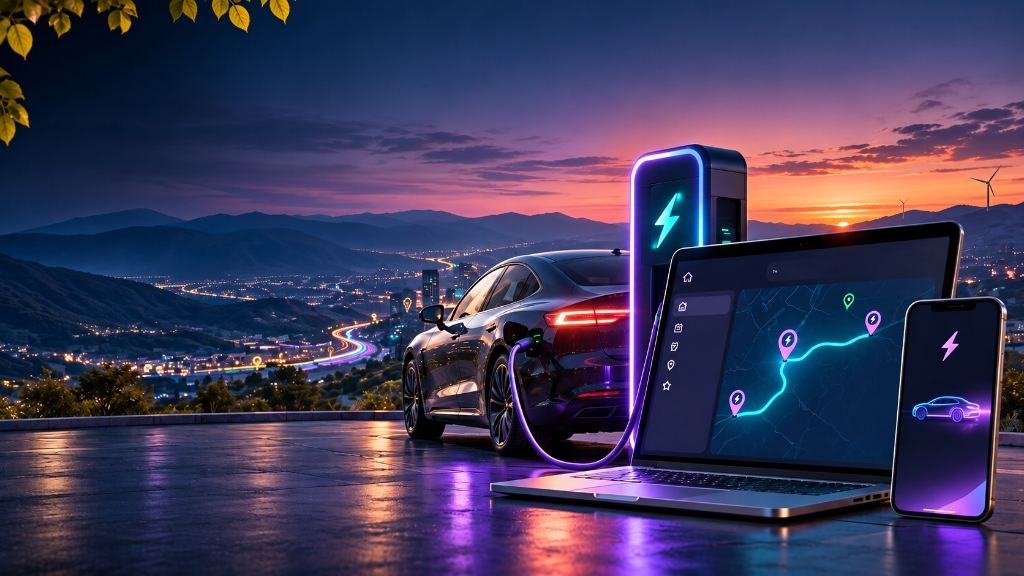
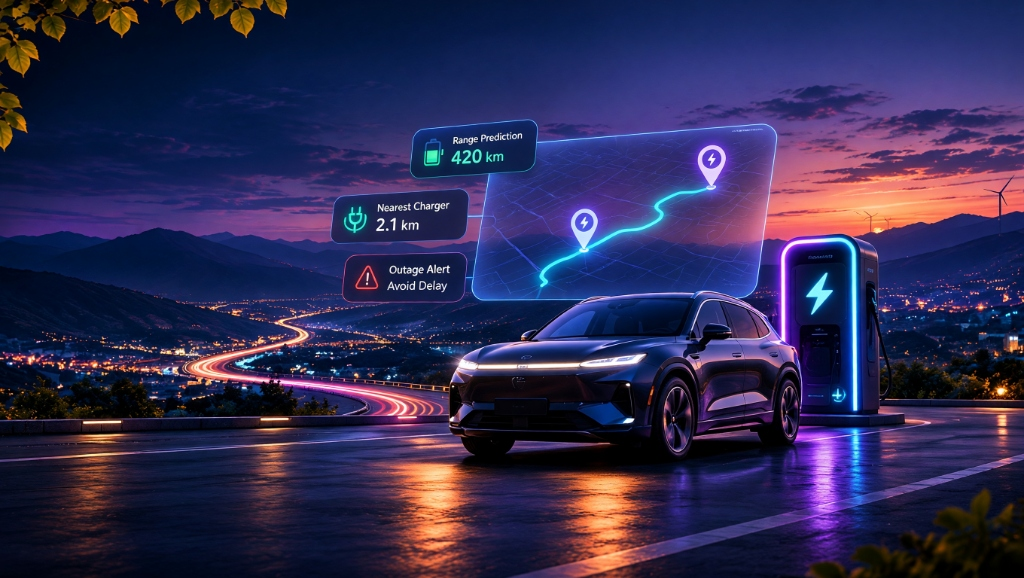
Update homepage hero background to futuristic holographic EV telemetry image with balanced directional studio fade

diff --git a/frontend/src/app/page.tsx b/frontend/src/app/page.tsx
@@ -62,57 +62,61 @@ export default function LandingPage() {
 
   return (
     <div className="flex flex-col min-h-screen">
-      {/* 1. HERO SECTION WITH CLEAR CINEMATIC EV BACKGROUND (ZERO FADE) */}
+      {/* 1. HERO SECTION WITH FUTURISTIC EV HOLOGRAPHIC TELEMETRY BACKGROUND */}
       <section className="relative overflow-hidden py-14 sm:py-24 border-b border-slate-800 bg-slate-950">
-        {/* Real Authentic Background Image with Zero Fade */}
+        {/* Background Image Container with Balanced Directional Fade */}
         <div className="absolute inset-0 z-0">
           <img
             src="/images/hero-bg.jpg"
-            alt="ChargeRoute AI EV Highway Corridor Sunset"
+            alt="ChargeRoute AI EV Holographic Telemetry and Highway Corridor"
             className="w-full h-full object-cover object-center"
           />
+          {/* Directional studio fade: smooth contrast on left for copy, clear view of holographic HUD, car & charger in center/right */}
+          <div className="absolute inset-0 bg-gradient-to-r from-slate-950/85 via-slate-950/45 to-transparent" />
+          <div className="absolute inset-0 bg-gradient-to-t from-slate-950 via-slate-950/20 to-transparent" />
+          <div className="absolute inset-0 bg-gradient-to-b from-slate-950/40 via-transparent to-transparent" />
         </div>
 
         <div className="relative z-10 max-w-7xl mx-auto px-4 sm:px-6 lg:px-8">
           <div className="grid grid-cols-1 lg:grid-cols-12 gap-10 lg:gap-12 items-center">
-            {/* Left Hero Copy - Sleek frosted glass panel showcasing clear image behind */}
-            <div className="lg:col-span-7 space-y-6 text-left bg-slate-950/65 backdrop-blur-md p-6 sm:p-9 rounded-3xl border border-white/15 shadow-2xl">
+            {/* Left Hero Copy */}
+            <div className="lg:col-span-7 space-y-6 text-left">
               {/* Attribution Pill */}
               <a
                 href="https://ksvisualsagency.vercel.app/"
                 target="_blank"
                 rel="noopener noreferrer"
-                className="inline-flex items-center gap-2 px-3.5 py-1.5 rounded-full text-xs font-semibold bg-emerald-500/10 hover:bg-emerald-500/20 text-emerald-300 border border-emerald-500/30 backdrop-blur-md shadow-lg transition-colors group"
+                className="inline-flex items-center gap-2 px-3.5 py-1.5 rounded-full text-xs font-semibold bg-slate-950/70 hover:bg-slate-900/80 text-emerald-300 border border-emerald-500/30 backdrop-blur-md shadow-lg transition-colors group"
               >
                 <span className="w-2 h-2 rounded-full bg-emerald-400 animate-pulse" />
                 <span>Made by <strong className="underline group-hover:text-emerald-200">KSVISUALSAGENCY</strong> ↗ • Pan-India EV Planning Platform</span>
               </a>
 
-              <h1 className="text-3xl sm:text-5xl lg:text-6xl font-extrabold text-white tracking-tight leading-[1.15] drop-shadow-md">
+              <h1 className="text-3xl sm:text-5xl lg:text-6xl font-extrabold text-white tracking-tight leading-[1.15] drop-shadow-lg">
                 Plan Your EV Journey.{" "}
                 <span className="text-emerald-400 block mt-1">Predict Range &amp; Outage Backups.</span>
               </h1>
 
-              <p className="text-sm sm:text-base lg:text-lg text-slate-300 max-w-xl leading-relaxed drop-shadow-xs">
+              <p className="text-sm sm:text-base lg:text-lg text-slate-200 max-w-xl leading-relaxed drop-shadow-md">
                 India&apos;s intelligent electric vehicle navigation platform. Calculate deterministic battery range, discover verified charging stations across 35 states, and secure safe backup stops before you hit the road.
               </p>
 
               {/* Key Features Quick Grid */}
               <div className="grid grid-cols-3 gap-3 sm:gap-4 pt-4 border-t border-slate-700/80 text-xs">
                 <div className="space-y-1">
-                  <div className="text-emerald-400 font-extrabold text-lg sm:text-xl">141+</div>
-                  <strong className="block text-white font-bold text-xs">Indian EV Models</strong>
-                  <span className="text-slate-400 text-[11px] block">With custom car builder</span>
+                  <div className="text-emerald-400 font-extrabold text-lg sm:text-xl drop-shadow">141+</div>
+                  <strong className="block text-white font-bold text-xs drop-shadow">Indian EV Models</strong>
+                  <span className="text-slate-300 text-[11px] block">With custom car builder</span>
                 </div>
                 <div className="space-y-1">
-                  <div className="text-emerald-400 font-extrabold text-lg sm:text-xl">269</div>
-                  <strong className="block text-white font-bold text-xs">City &amp; Highway Hubs</strong>
-                  <span className="text-slate-400 text-[11px] block">Verified 24/7 chargers</span>
+                  <div className="text-emerald-400 font-extrabold text-lg sm:text-xl drop-shadow">269</div>
+                  <strong className="block text-white font-bold text-xs drop-shadow">City &amp; Highway Hubs</strong>
+                  <span className="text-slate-300 text-[11px] block">Verified 24/7 chargers</span>
                 </div>
                 <div className="space-y-1">
-                  <div className="text-emerald-400 font-extrabold text-lg sm:text-xl">0–100</div>
-                  <strong className="block text-white font-bold text-xs">Explainable Risk</strong>
-                  <span className="text-slate-400 text-[11px] block">Outage &amp; queue safety</span>
+                  <div className="text-emerald-400 font-extrabold text-lg sm:text-xl drop-shadow">0–100</div>
+                  <strong className="block text-white font-bold text-xs drop-shadow">Explainable Risk</strong>
+                  <span className="text-slate-300 text-[11px] block">Outage &amp; queue safety</span>
                 </div>
               </div>
 
